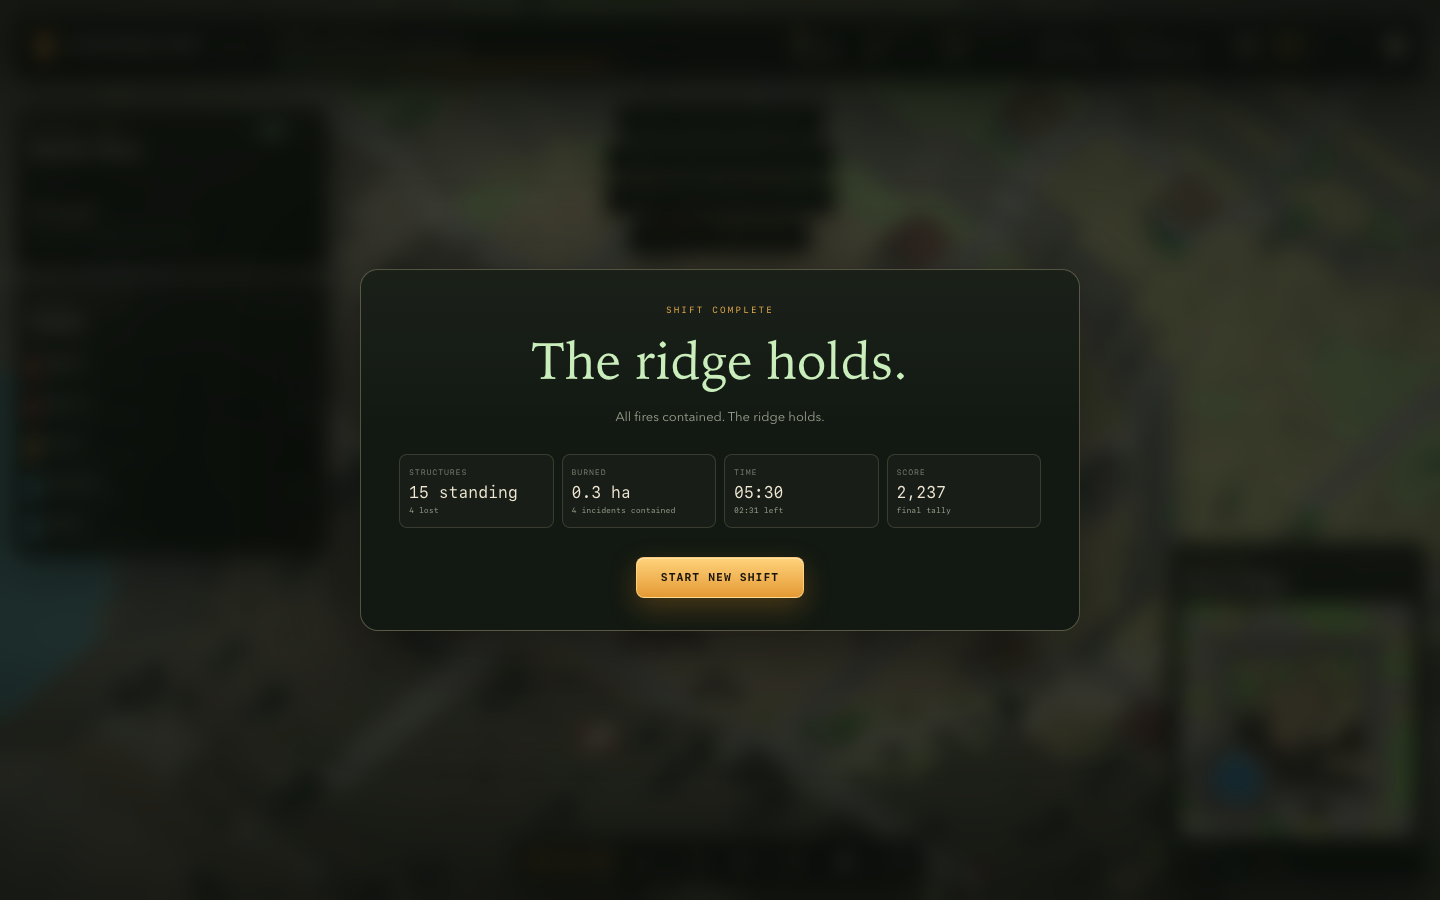
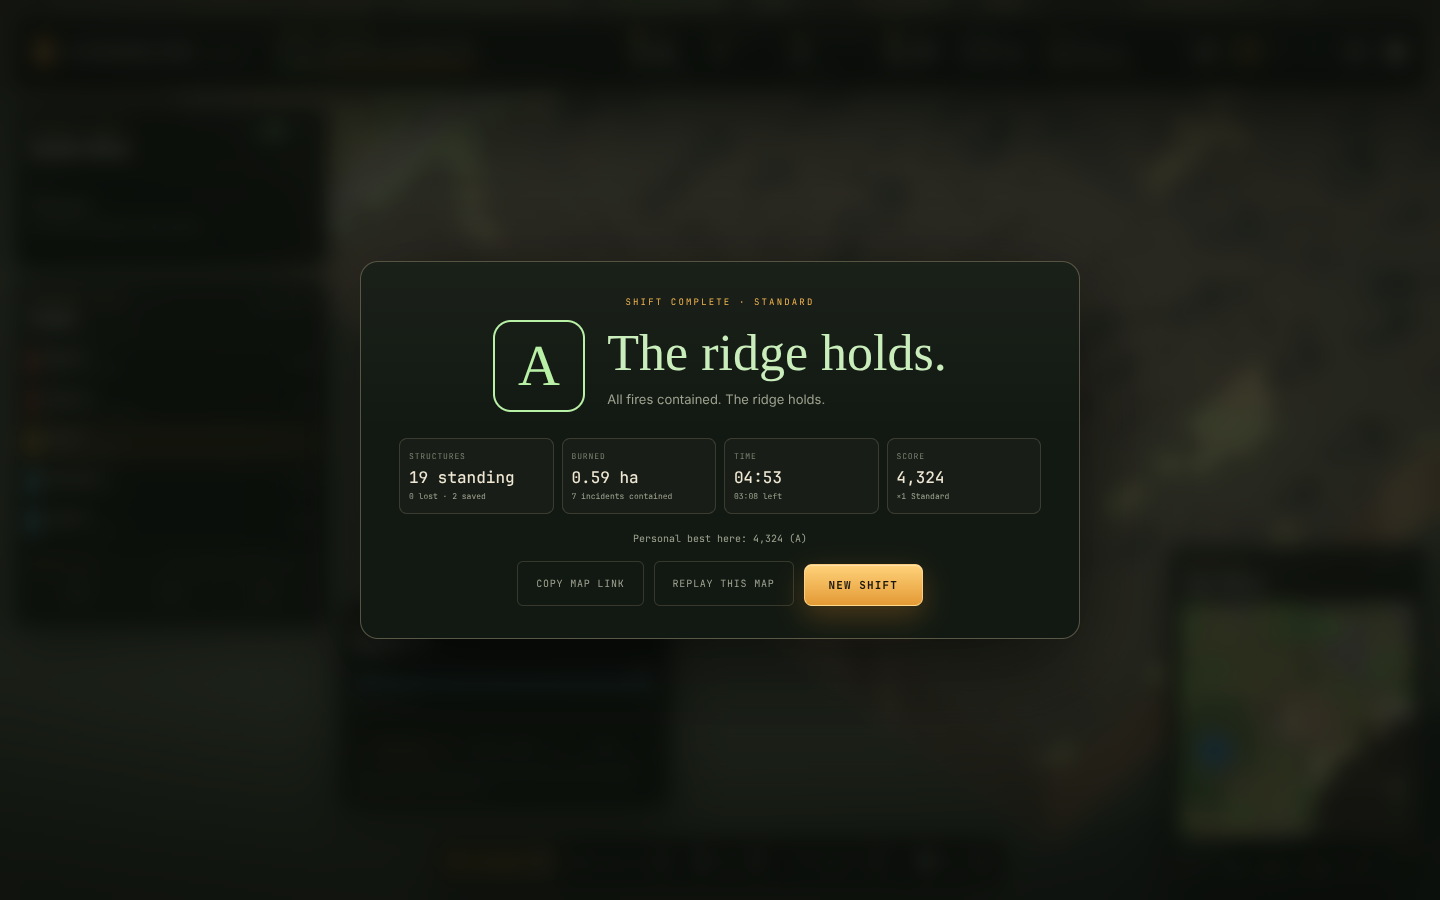
polish: visible plan overlay, Red Flag tuning, broader smoke, new shots
- Plan overlay for roads and dozer lines ignores tone mapping, is brighter,
  and pulses, so the planned tiles read clearly on tan ground.
- Red Flag spread x1.25 and spotting x1.7. Hands-off on eight seeds:
  Calm 5/8, Standard 3/8, Red Flag 2/8 wins.
- Smoke test plans a road through the mouse and checks the overlay, orders
  a dozer line, lights a backburn, buys mutual aid, and checks the grade.
- Stability allows open incidents only for wins at the final bell.
- balance.mjs gains ASSIST=1 (buy mutual aid whenever affordable).
- Test API exposes plan overlay state.
- README screenshots regenerated; specs record the balance numbers.

Claude-Session: https://claude.ai/code/session_01R9XD6VuHDw4rcbPLmVCh2C

diff --git a/src/game.ts b/src/game.ts
@@ -559,6 +559,7 @@ export class Game {
     this.markerTime += realDt;
     this.updateIncidentMarkers();
     this.effects.update(realDt);
+    this.planPreview.update(this.markerTime);
     this.atmosphere.update(realDt, this.scenario.shiftProgress, this.fire.stats().burning);
     this.hudTimer -= realDt;
     if (this.hudTimer <= 0) {
@@ -1221,7 +1222,7 @@ export class Game {
       this.tool === 'road'
         ? { tiles: path.length, cost: this.newRoadTiles(path) * ROAD_COST_PER_TILE }
         : { tiles: path.length, cost: 0 };
-    const color = this.tool === 'road' ? 0xffc95c : 0xe9844a;
+    const color = this.tool === 'road' ? 0xffd24a : 0xff7a24;
     (this.roadPreview.material as LineBasicMaterial).color.setHex(color);
     this.planPreview.show(path, color, this.preview.cost <= this.budget.funds);
     const positions = this.roadPreview.geometry.getAttribute('position');
@@ -1333,6 +1334,11 @@ export class Game {
         difficulty: this.difficulty,
         funds: Math.floor(this.budget.funds),
         reinforcements: this.reinforcements.map((item) => ({ name: item.name, eta: item.eta })),
+        plan: {
+          tiles: this.preview?.tiles ?? 0,
+          overlayVisible: this.planPreview.mesh.visible,
+          lineVisible: this.roadPreview.visible,
+        },
         scenario: this.scenario.currentResult,
         fire: this.fire.stats(),
         units: this.fleet.snapshots(),
@@ -1469,7 +1475,7 @@ function createTileHighlight(): LineLoop {
   const geometry = new BufferGeometry();
   const positions = new Float32BufferAttribute(new Float32Array(5 * 3), 3);
   geometry.setAttribute('position', positions);
-  const material = new LineBasicMaterial({ color: 0xffe8a8, transparent: true, opacity: 0.95 });
+  const material = new LineBasicMaterial({ color: 0xffe8a8, transparent: true, opacity: 0.95, toneMapped: false });
   const loop = new LineLoop(geometry, material);
   loop.visible = false;
   loop.renderOrder = 10;
@@ -1481,7 +1487,7 @@ function createRoadPreview(): Line {
   const geometry = new BufferGeometry();
   const positions = new Float32BufferAttribute(new Float32Array(400 * 3), 3);
   geometry.setAttribute('position', positions);
-  const material = new LineBasicMaterial({ color: 0xffc95c, transparent: true, opacity: 0.9 });
+  const material = new LineBasicMaterial({ color: 0xffc95c, transparent: true, opacity: 0.9, toneMapped: false });
   const line = new Line(geometry, material);
   line.visible = false;
   line.renderOrder = 10;

diff --git a/src/fx/planPreview.ts b/src/fx/planPreview.ts
@@ -25,8 +25,9 @@ export class PlanPreview {
     this.material = new MeshBasicMaterial({
       color: 0xffc95c,
       transparent: true,
-      opacity: 0.42,
+      opacity: 0.62,
       depthWrite: false,
+      toneMapped: false,
       side: DoubleSide,
       polygonOffset: true,
       polygonOffsetFactor: -2,
@@ -66,5 +67,10 @@ export class PlanPreview {
 
   hide(): void {
     this.mesh.visible = false;
+  }
+
+  /** Gentle pulse so the planned tiles stand out from cleared ground. */
+  update(time: number): void {
+    if (this.mesh.visible) this.material.opacity = 0.5 + 0.18 * (0.5 + 0.5 * Math.sin(time * 5));
   }
 }

diff --git a/src/sim/difficulty.ts b/src/sim/difficulty.ts
@@ -70,8 +70,8 @@ export const DIFFICULTIES: Record<DifficultyId, Difficulty> = {
     windShiftTimes: [60, 150, 240, 330, 410],
     startWindSpeed: 7.2,
     windSpeedRange: [6.2, 11.2],
-    spreadMultiplier: 1.12,
-    spotMultiplier: 1.45,
+    spreadMultiplier: 1.25,
+    spotMultiplier: 1.7,
     startingFunds: 260,
     income: 1.3,
     containmentBonus: 110,

diff --git a/specs/fire_behavior.md b/specs/fire_behavior.md
@@ -15,7 +15,15 @@ Implemented: tile ignition/spread, wind and slope, moisture, wetness/retardant, 
 - `env: { windDirRad, windSpeed, humidity }`
 - `simTime`, step counter, hashed seed
 
-Balance note: terrace banks now carry fuel (they used to be classed as rock and acted as free firebreaks), so `SPREAD_SCALE = 0.35` and `SPOT_SCALE = 0.3` trim spread and ember spotting. The difficulty preset multiplies both through `spreadMultiplier` and `spotMultiplier` (Calm 0.82/0.6, Standard 1/1, Red Flag 1.12/1.45). `npm run balance` reports hands-off outcomes per seed; active play (lines, roads, backburns, manual orders) is expected to make the difference.
+Balance note: terrace banks now carry fuel (they used to be classed as rock and acted as free firebreaks), so `SPREAD_SCALE = 0.35` and `SPOT_SCALE = 0.3` trim spread and ember spotting. The difficulty preset multiplies both through `spreadMultiplier` and `spotMultiplier` (Calm 0.82/0.6, Standard 1/1, Red Flag 1.25/1.7). `npm run balance` reports hands-off outcomes per seed; active play (lines, roads, backburns, manual orders) is expected to make the difference. Hands-off results on the eight default seeds at the time of writing:
+
+| Preset | Won | Structures lost (all seeds) | Typical loss |
+| --- | --- | --- | --- |
+| Calm | 5 / 8 | 2 | fire still burning at the bell |
+| Standard | 3 / 8 | 0 | fire still burning at the bell |
+| Red Flag | 2 / 8 | 14 | burn limit, structures, or the bell |
+
+Buying mutual aid alone (`ASSIST=1`) does not change the Standard win count; it trims burned area on most seeds.
 
 Fire ticks at 5 Hz (`FIXED_STEP = 0.2`) from the frame-driven accumulator, capped at 12 steps per call.
 

diff --git a/specs/gameplay.md b/specs/gameplay.md
@@ -20,7 +20,7 @@ Presets live in `src/sim/difficulty.ts`.
 | Lightning strikes (s) | 30, 120, 230 | 26, 94, 172, 266 | 20, 72, 128, 190, 255, 325 |
 | Wind shifts (s) | 90, 210, 340 | 70, 190, 310, 420 | 60, 150, 240, 330, 410 |
 | Start wind / shift range (m/s) | 4.2 / 3.2–6.6 | 5.4 / 4.2–9.4 | 7.2 / 6.2–11.2 |
-| Spread × / spotting × | 0.82 / 0.6 | 1 / 1 | 1.12 / 1.45 |
+| Spread × / spotting × | 0.82 / 0.6 | 1 / 1 | 1.25 / 1.7 |
 | Budget start / income / containment bonus | $450 / 2.2/s / $150 | $320 / 1.6/s / $120 | $260 / 1.3/s / $110 |
 | Loss: burned area / structures lost | 2.2 ha / 12 | 1.6 ha / 10 | 1.4 ha / 8 |
 | Corralled at the bell (burning tiles) | 40 | 15 | 6 |
@@ -114,7 +114,9 @@ Grade (corralled wins excepted, see above): **S** won with no losses and under 0
 - `screenPosition()`, `unitScreenPosition()`, `debugPick()`.
 - `roadFuelMismatches()` — integration assertion for road firebreaks.
 
-These helpers are used by `scripts/smoke.mjs`, `scripts/stability.mjs`, and `scripts/balance.mjs`.
+- `getState().plan` — tile count and visibility of the road/dozer-line plan overlay.
+
+These helpers are used by `scripts/smoke.mjs`, `scripts/stability.mjs`, and `scripts/balance.mjs`. The smoke test also plans a road through real mouse input (and checks the overlay), orders a dozer line, lights a backburn, buys a mutual-aid dozer and waits for it to arrive, and checks the result has a grade.
 
 ## Acceptance criteria
 

diff --git a/README.md b/README.md
@@ -85,9 +85,9 @@ npm run stability   # five-seed full shift, plus a determinism replay
 npm run balance     # hands-off outcomes per seed; fails on stuck units
 ```
 
-`npm run balance` accepts `SEEDS=1,2,3`, `DIFFICULTY=calm|standard|redflag`, and `PORT=4178`.
+`npm run balance` accepts `SEEDS=1,2,3`, `DIFFICULTY=calm|standard|redflag`, `ASSIST=1` (buy mutual aid whenever affordable), and `PORT=4178`.
 
-The smoke test boots the game, starts a shift, ignites a fire, selects and moves an engine, builds a road, checks firebreak integration, verifies pause/help/speed controls, fast-forwards to an outcome, and asserts the end screen appears without browser errors.
+The smoke test boots the game, starts a shift, ignites a fire, selects and moves an engine, builds a road, checks firebreak integration, plans a road through the mouse and checks the overlay, orders a dozer line, lights a backburn, buys mutual aid, verifies pause/help/speed controls, fast-forwards to an outcome, and asserts the graded end screen appears without browser errors.
 
 Browser scripts use Playwright's Chromium when it is installed (`npx playwright install chromium`). Otherwise they fall back to a system Chrome or Chromium, or to the binary named in `CHROMIUM_PATH`.
 
